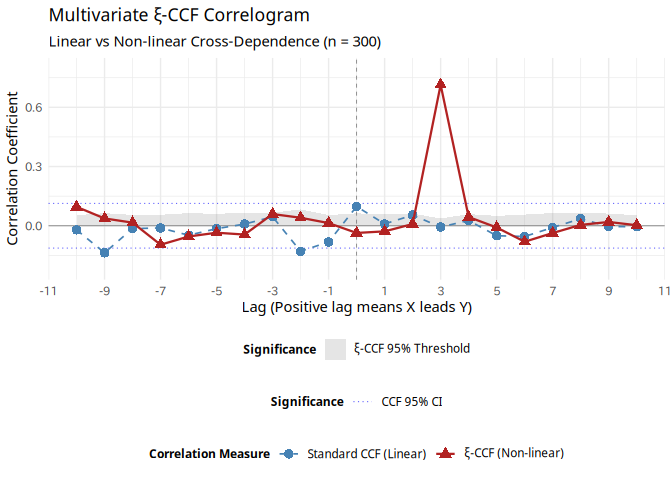
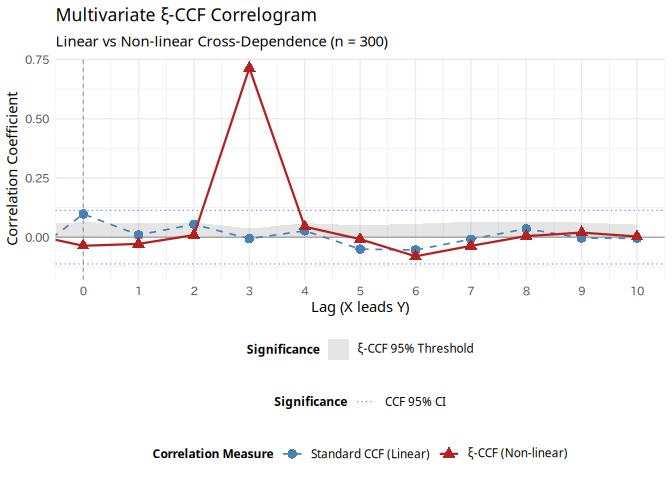
docs: hide negative lags in README plot for clarity

diff --git a/README.md b/README.md
@@ -157,7 +157,12 @@ ccf_results <- xi_ccf(x = X, y = Y, max_lag = 10, n_surr = 100)
 
 # Visualize the results
 # Standard CCF misses the V-shaped relationship, but Xi-CCF correctly detects that X leads Y by 3 periods.
-autoplot(ccf_results)
+library(ggplot2)
+autoplot(ccf_results) +
+  coord_cartesian(xlim = c(0, 10)) +
+  labs(x = "Lag (X leads Y)")
+#> Coordinate system already present.
+#> ℹ Adding new coordinate system, which will replace the existing one.
 ```
 
 <div class="figure">
